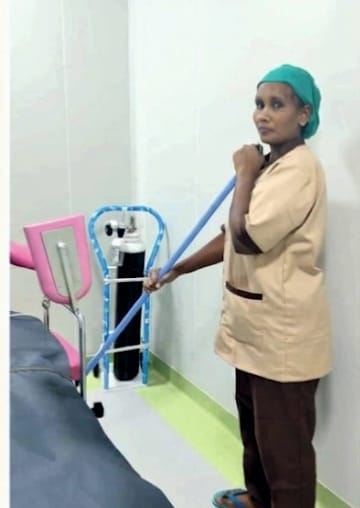
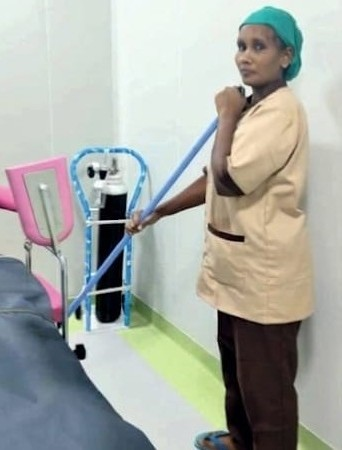
added gallery page

diff --git a/assets/css/style.css b/assets/css/style.css
@@ -5869,7 +5869,7 @@ body.about-page {
   width: 100%;
   height: 100%;
   display: block;
-  object-fit: cover;
+  /* object-fit: cover; */
   object-position: center;
   transform: scale(1);
   filter: brightness(0.97);
